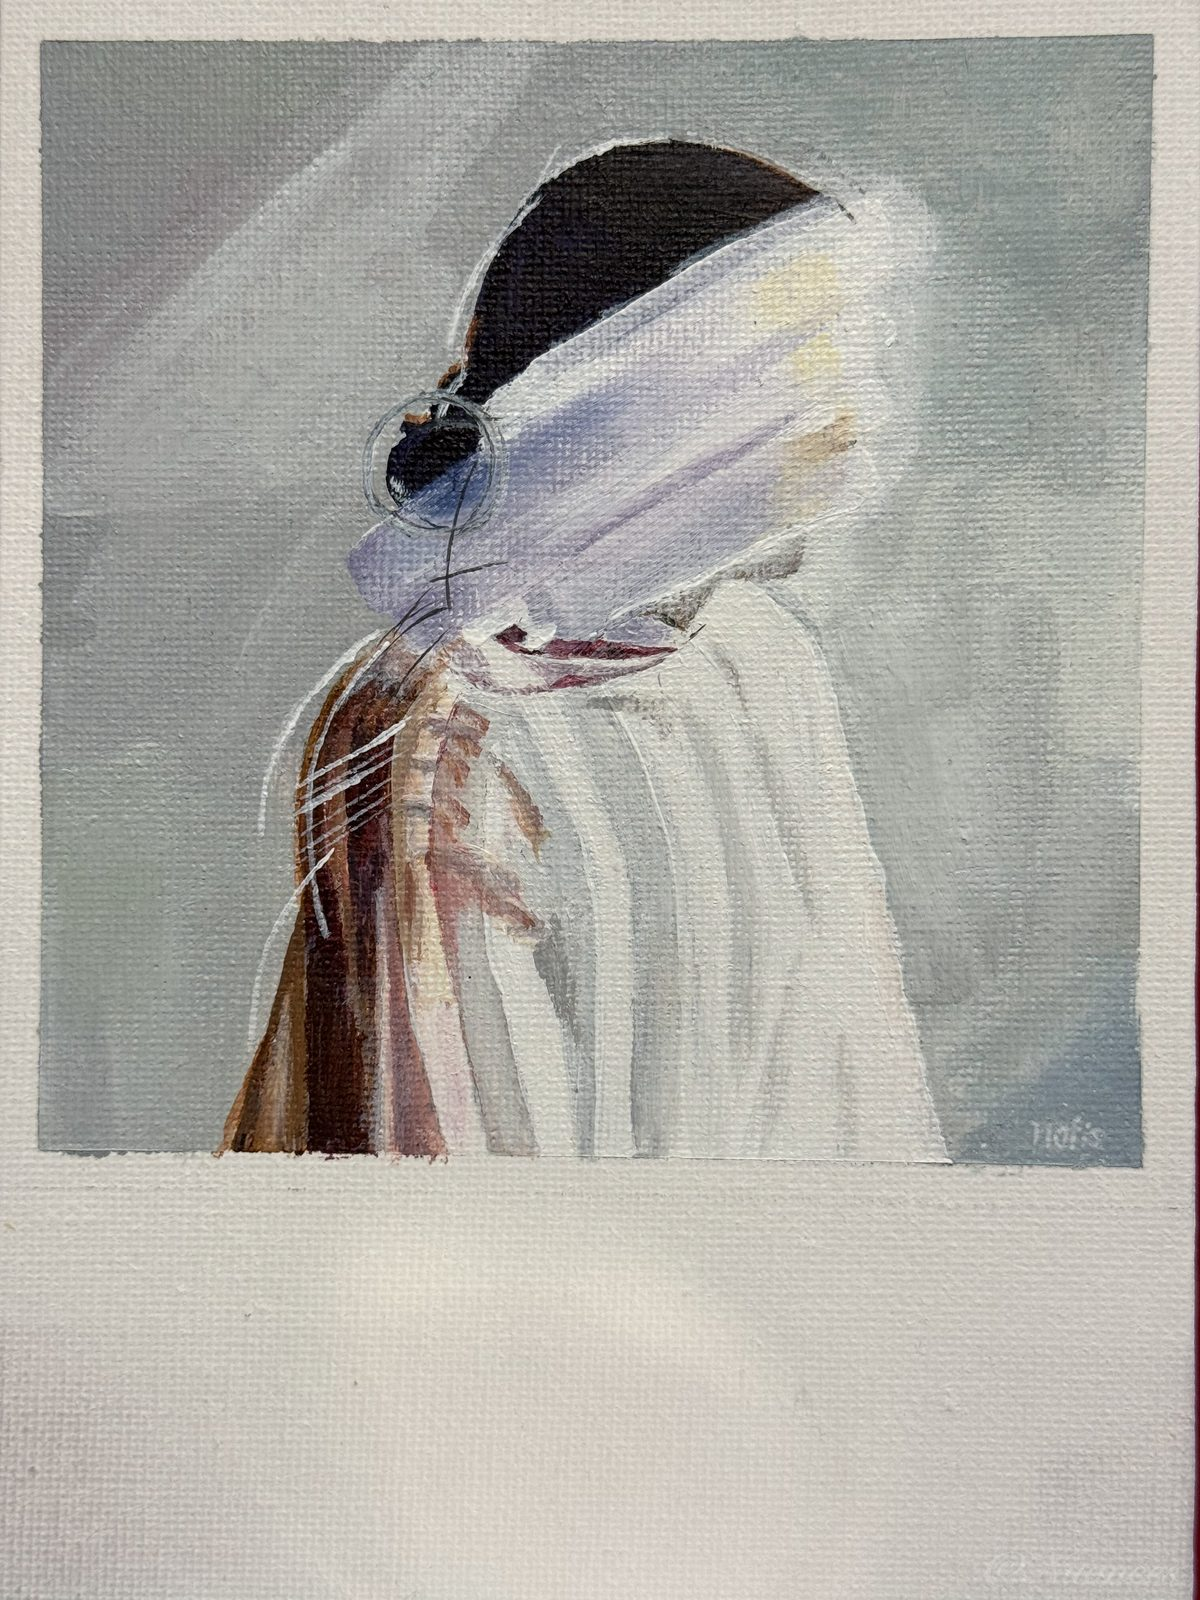
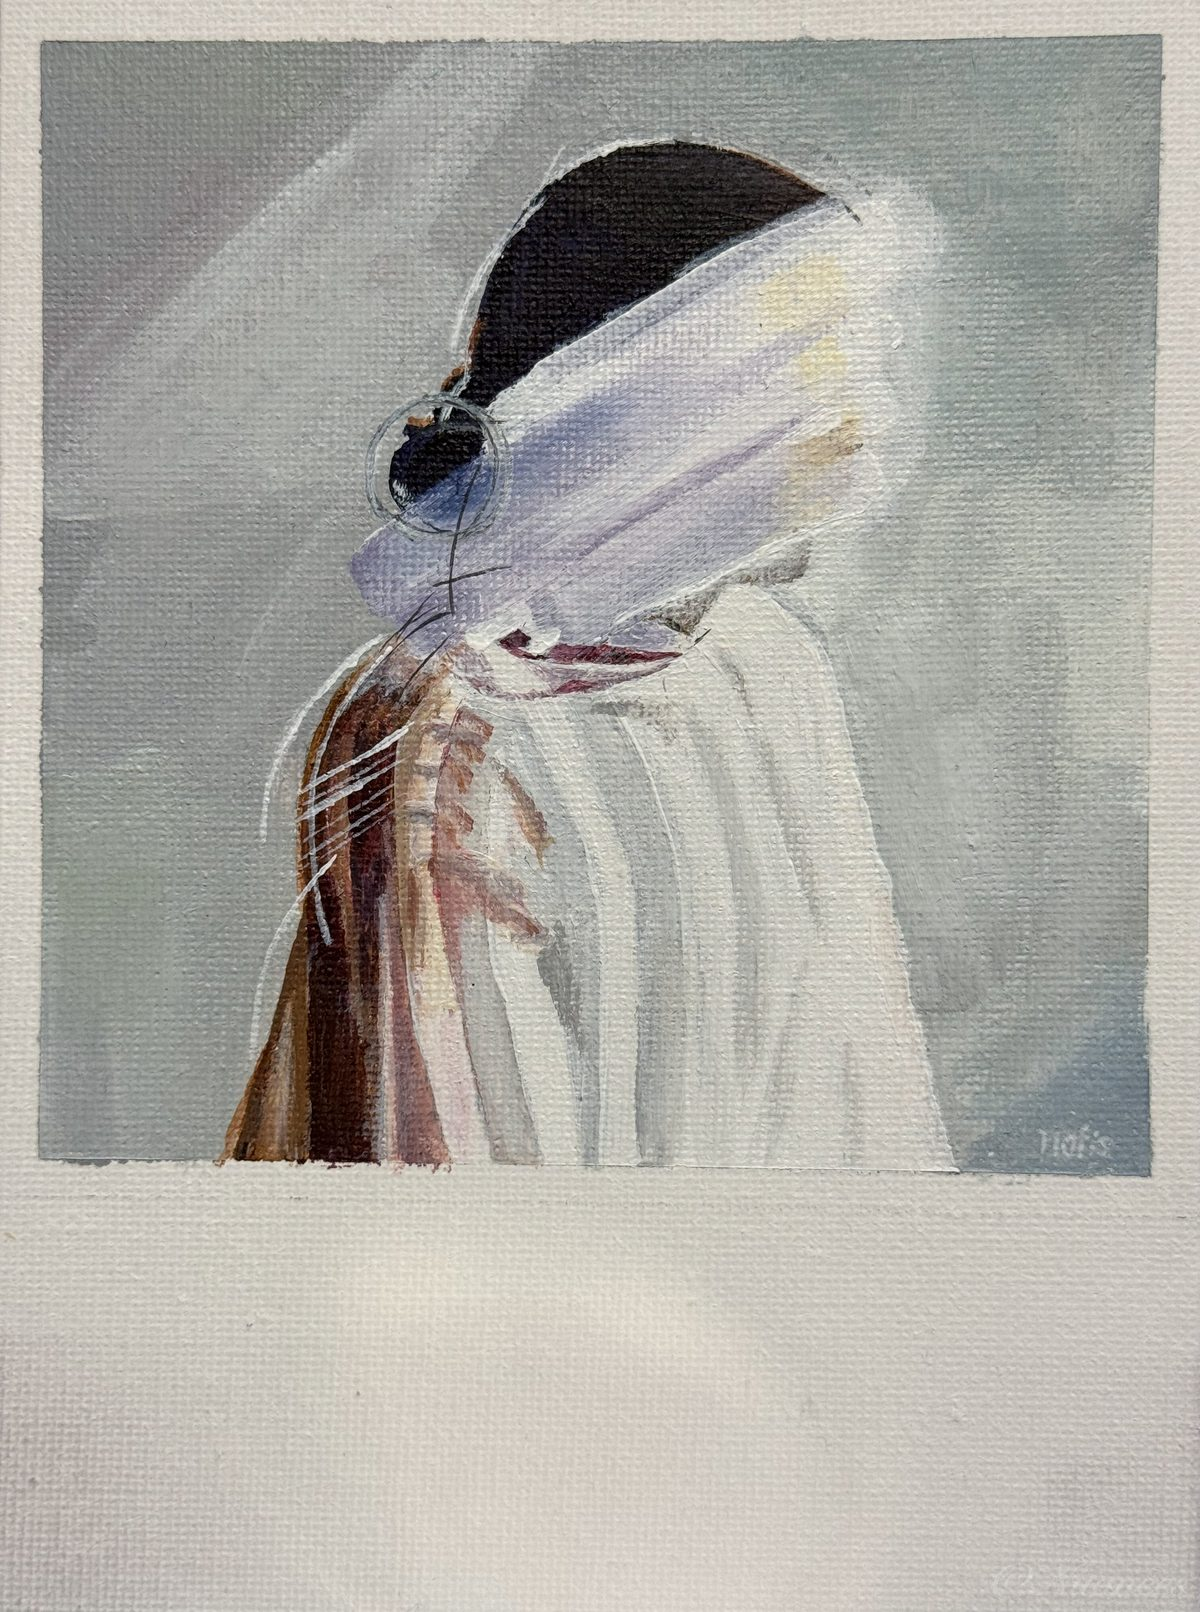
Update A013 Tumi with the edited photograph
Same metadata; the new crop is 1800x2418.

Claude-Session: https://claude.ai/code/session_012FpAVkwbVFMHEecmbq7E1n

diff --git a/js/works-data.js b/js/works-data.js
@@ -29,7 +29,7 @@
   { id: 'A010', title: 'Still Life: Statue on Call', year: 2025, medium: 'Oil on canvas panel', dimensions: '16x20 inches', category: 'painting', base: 'artwork/a010-still-life-statue-on-call', ws: [600, 1200, 1800], w: 1800, h: 1417 },
   { id: 'A011', title: 'Abstract Collage: Nostalgia', year: 2025, medium: 'Acrylic on wood panel', dimensions: '18x18 inches', category: 'mixed', base: 'artwork/a011-abstract-collage-nostalgia', ws: [600, 1200, 1800], w: 1800, h: 1781 },
   { id: 'A012', title: 'Eiffel Tower', year: 2025, medium: 'Mixed media on canvas', dimensions: '32x28 inches', category: 'mixed', base: 'artwork/a012-eiffel-tower', ws: [600, 1200, 1800], w: 1800, h: 2028 },
-  { id: 'A013', title: 'Tumi', year: 2025, medium: 'Acrylic on canvas panel', dimensions: '5x7 inches', category: 'painting', base: 'artwork/a013-tumi', ws: [600, 1200, 1800], w: 1800, h: 2400 },
+  { id: 'A013', title: 'Tumi', year: 2025, medium: 'Acrylic on canvas panel', dimensions: '5x7 inches', category: 'painting', base: 'artwork/a013-tumi', ws: [600, 1200, 1800], w: 1800, h: 2418 },
   { id: 'A014', title: 'All for you, You for me', year: 2025, medium: 'Digital gouache painting', dimensions: '1526x2048 px', category: 'digital', base: 'artwork/a014-all-for-you-you-for-me', ws: [600, 1200, 1526], w: 1526, h: 2048 },
   { id: 'A015', title: 'Cat', year: 2025, medium: 'Digital Art', dimensions: '1593x2179 px', category: 'digital', base: 'artwork/a015-cat', ws: [600, 1200, 1593], w: 1593, h: 2179 },
   { id: 'A016', title: 'Monoprint Series: Horizon', year: null, medium: null, dimensions: null, category: 'print', base: 'artwork/a016-monoprint-series-horizon', ws: [600, 1200, 1800], w: 1800, h: 1220 },

diff --git a/index.html b/index.html
@@ -22,7 +22,7 @@
   <script src="js/intro-utils.js?v=77dd466a"></script>
   <script src="js/motion.js?v=f83564ed"></script>
   <script src="js/works-utils.js?v=a5a3885b" defer></script>
-  <script src="js/works-data.js?v=472d703b" defer></script>
+  <script src="js/works-data.js?v=286642e4" defer></script>
   <script src="js/works-photography.js?v=88451a81" defer></script>
   <script src="js/painted-text.js?v=e9bdfedc" defer></script>
   <script src="js/site-config.js?v=600a1a5b" defer></script>

diff --git a/404.html b/404.html
@@ -22,7 +22,7 @@
   <script src="js/theme.js?v=805378a4"></script>
   <script src="js/motion.js?v=f83564ed"></script>
   <script src="js/works-utils.js?v=a5a3885b" defer></script>
-  <script src="js/works-data.js?v=472d703b" defer></script>
+  <script src="js/works-data.js?v=286642e4" defer></script>
   <script src="js/works-photography.js?v=88451a81" defer></script>
   <script src="js/painted-text.js?v=e9bdfedc" defer></script>
   <script src="js/interactions.js?v=d4be9dee" defer></script>

diff --git a/contact.html b/contact.html
@@ -21,7 +21,7 @@
   <script src="js/theme.js?v=805378a4"></script>
   <script src="js/motion.js?v=f83564ed"></script>
   <script src="js/works-utils.js?v=a5a3885b" defer></script>
-  <script src="js/works-data.js?v=472d703b" defer></script>
+  <script src="js/works-data.js?v=286642e4" defer></script>
   <script src="js/works-photography.js?v=88451a81" defer></script>
   <script src="js/painted-text.js?v=e9bdfedc" defer></script>
   <script src="js/site-config.js?v=600a1a5b" defer></script>

diff --git a/gallery.html b/gallery.html
@@ -21,7 +21,7 @@
   <script src="js/theme.js?v=805378a4"></script>
   <script src="js/motion.js?v=f83564ed"></script>
   <script src="js/works-utils.js?v=a5a3885b" defer></script>
-  <script src="js/works-data.js?v=472d703b" defer></script>
+  <script src="js/works-data.js?v=286642e4" defer></script>
   <script src="js/works-photography.js?v=88451a81" defer></script>
   <script src="js/painted-text.js?v=e9bdfedc" defer></script>
   <script src="js/site-config.js?v=600a1a5b" defer></script>

diff --git a/series.html b/series.html
@@ -21,7 +21,7 @@
   <script src="js/theme.js?v=805378a4"></script>
   <script src="js/motion.js?v=f83564ed"></script>
   <script src="js/works-utils.js?v=a5a3885b" defer></script>
-  <script src="js/works-data.js?v=472d703b" defer></script>
+  <script src="js/works-data.js?v=286642e4" defer></script>
   <script src="js/works-photography.js?v=88451a81" defer></script>
   <script src="js/series-data.js?v=e86e24ea" defer></script>
   <script src="js/painted-text.js?v=e9bdfedc" defer></script>
